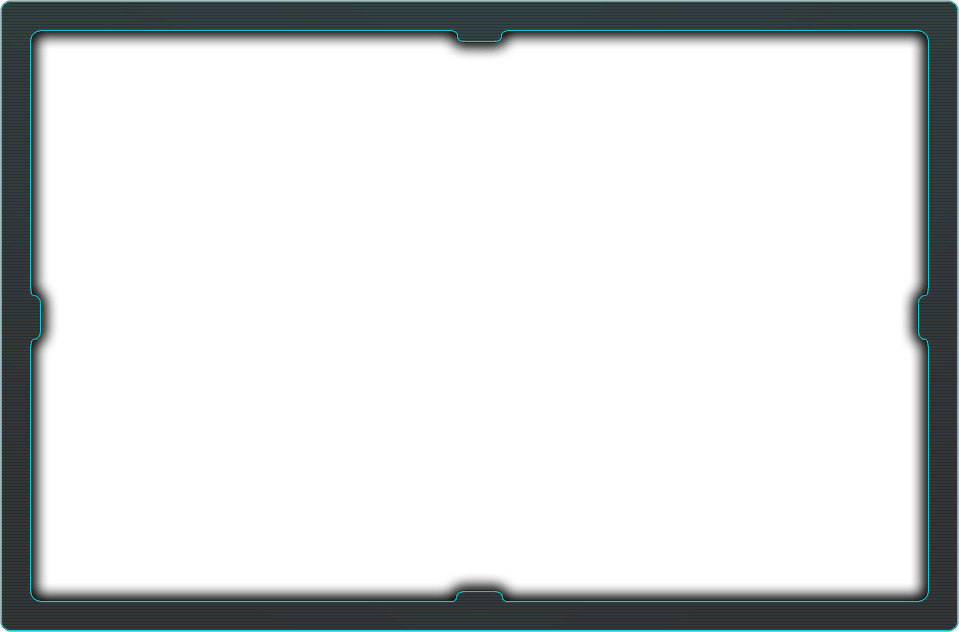
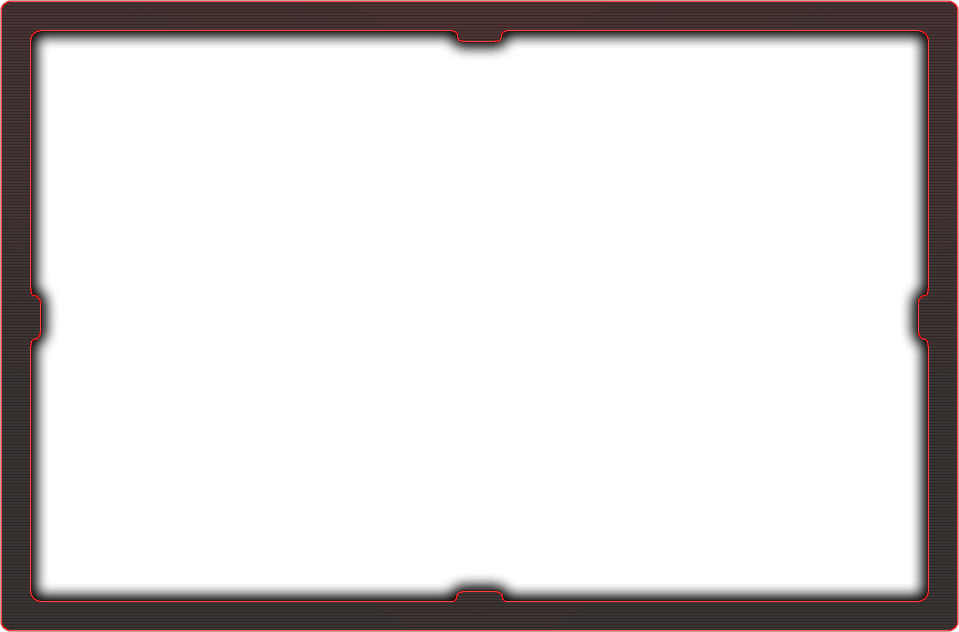
Like the regular map, but red

Changed region(s): [[0.0, 0.0, 1.0, 0.9921], [0.0, 0.9921, 0.9979, 1.0]]

diff --git a/index.html b/index.html
@@ -12,7 +12,7 @@
 				width: 100%;
 				height: 100%;
 				overflow: hidden;
-				background-color: rgb(8, 54, 88);
+				background-color: rgb(151, 14, 14);
 				margin: 0;
 				padding: 0;
 			}
@@ -20,7 +20,7 @@
 			#main {
 				width: 100%;
 				height: 100%;
-				background-color: rgb(8, 54, 88);
+				background-color: rgb(151, 14, 14);
 			}
 
 			#source {
